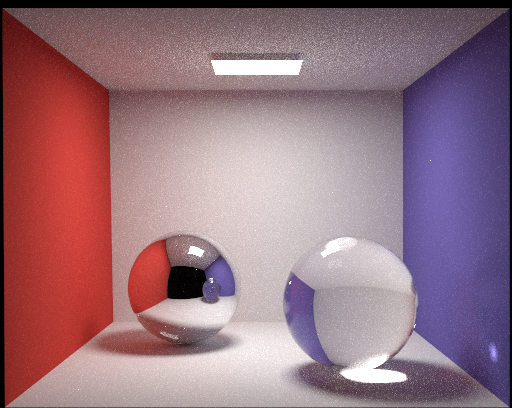
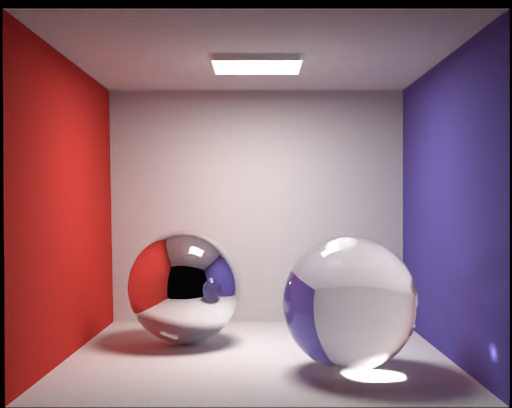
Update images

diff --git a/README.md b/README.md
@@ -39,7 +39,7 @@
 
 ![](images/CornellBox_Sphere_20_1000spp.png)
 
-![](images/dragon_1000spp.png)
+![](images/dragon_1000spp_denoise.png)
 
 
 
